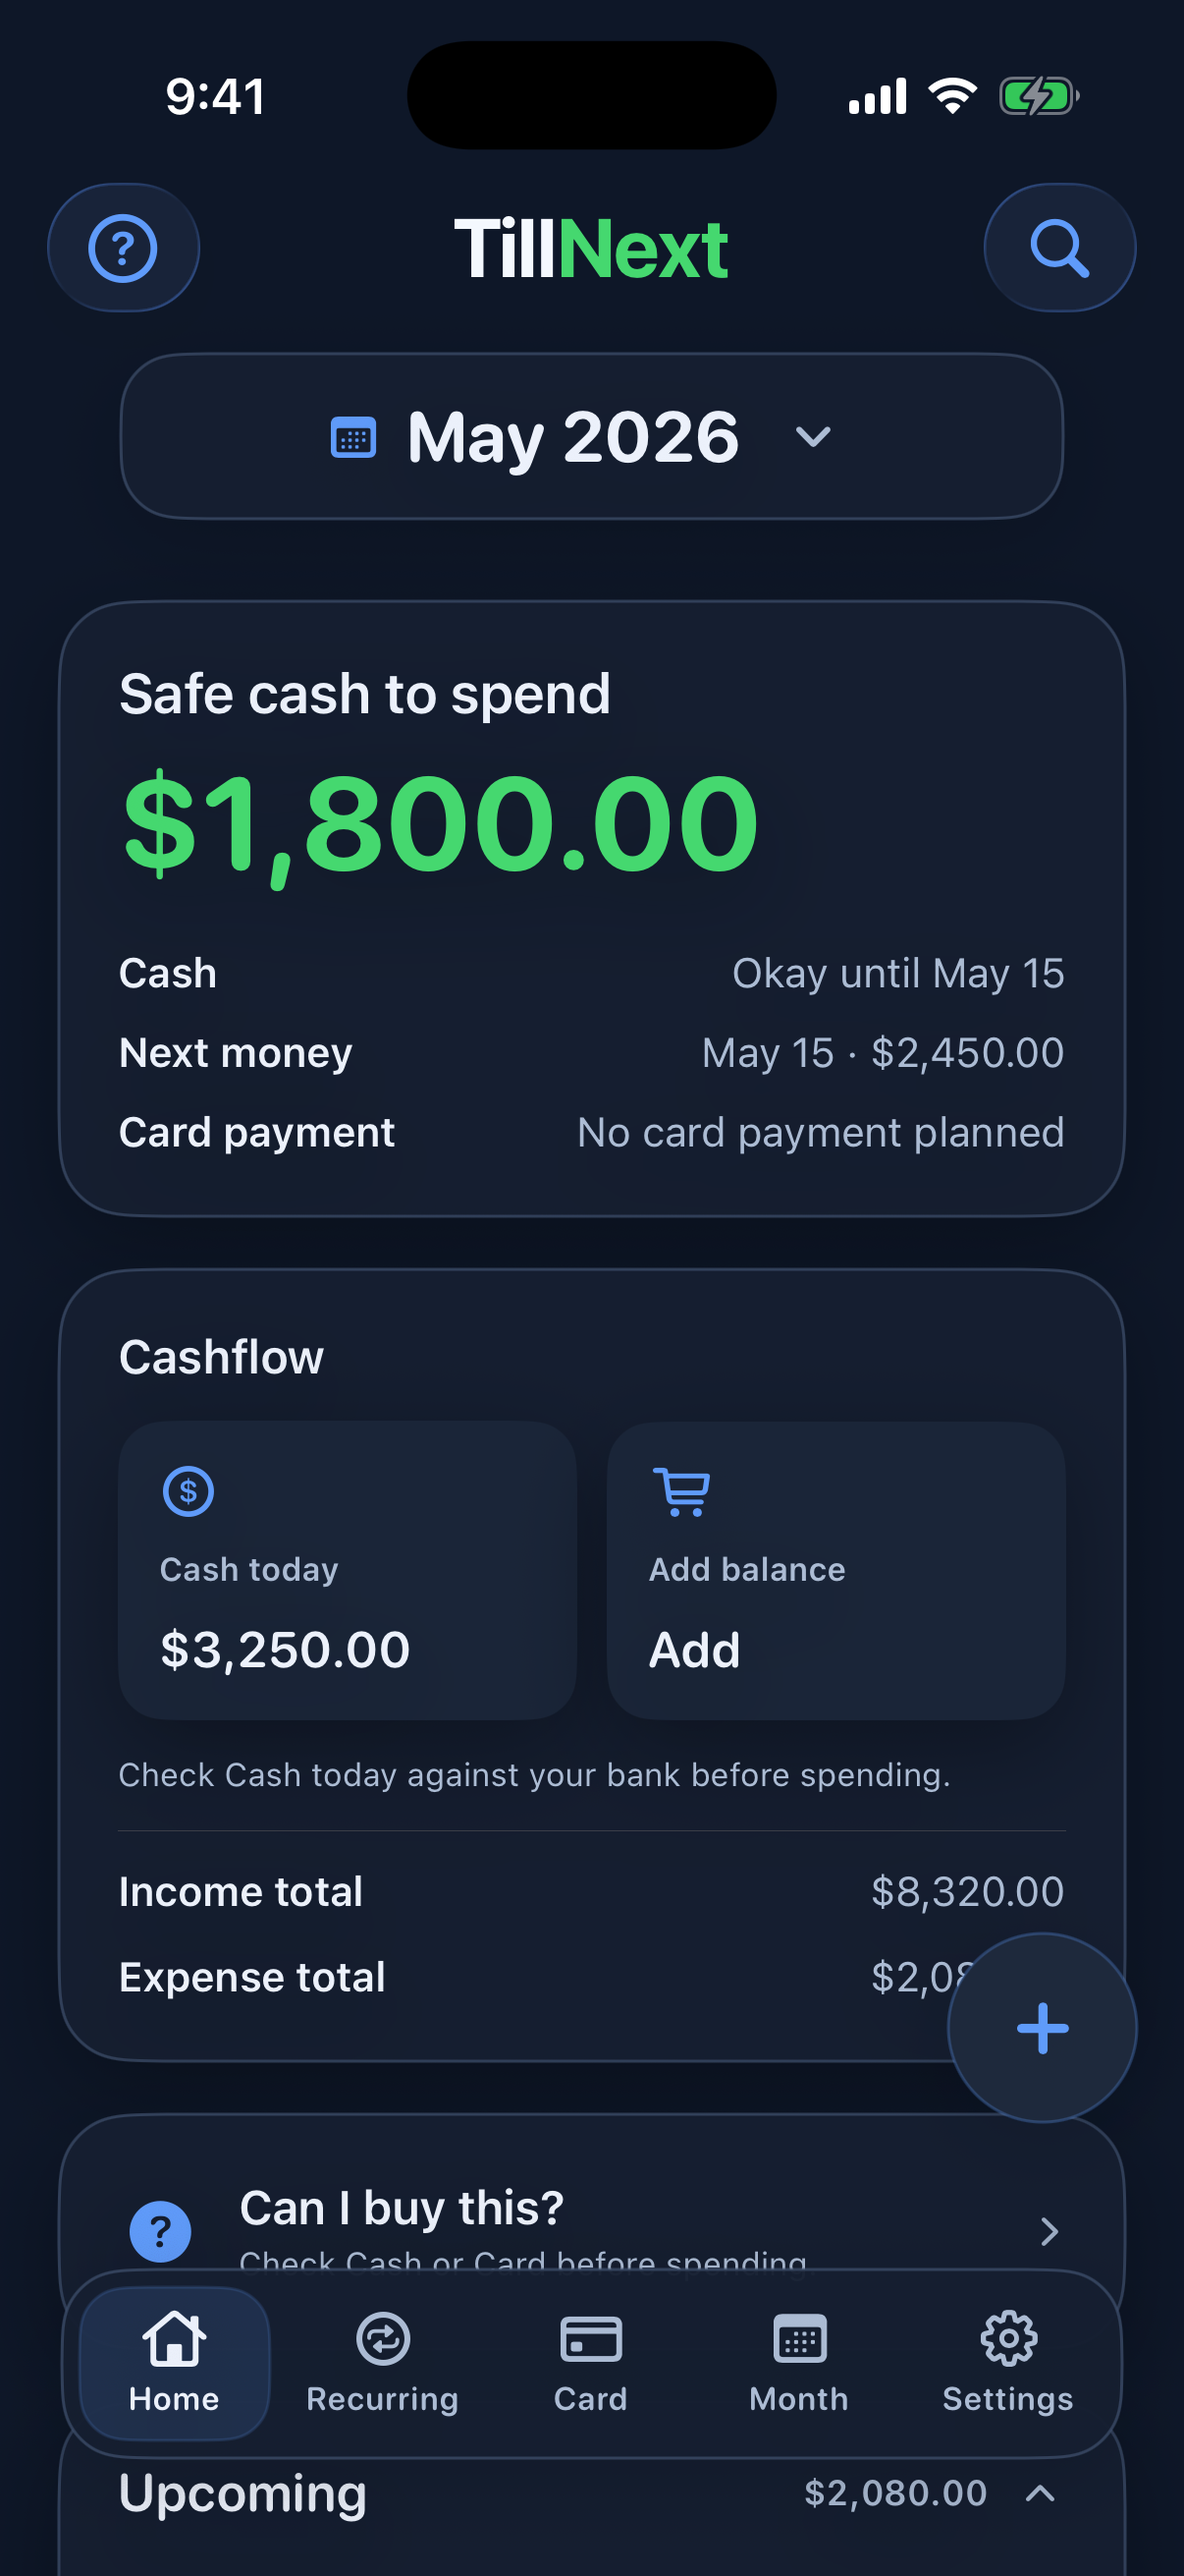
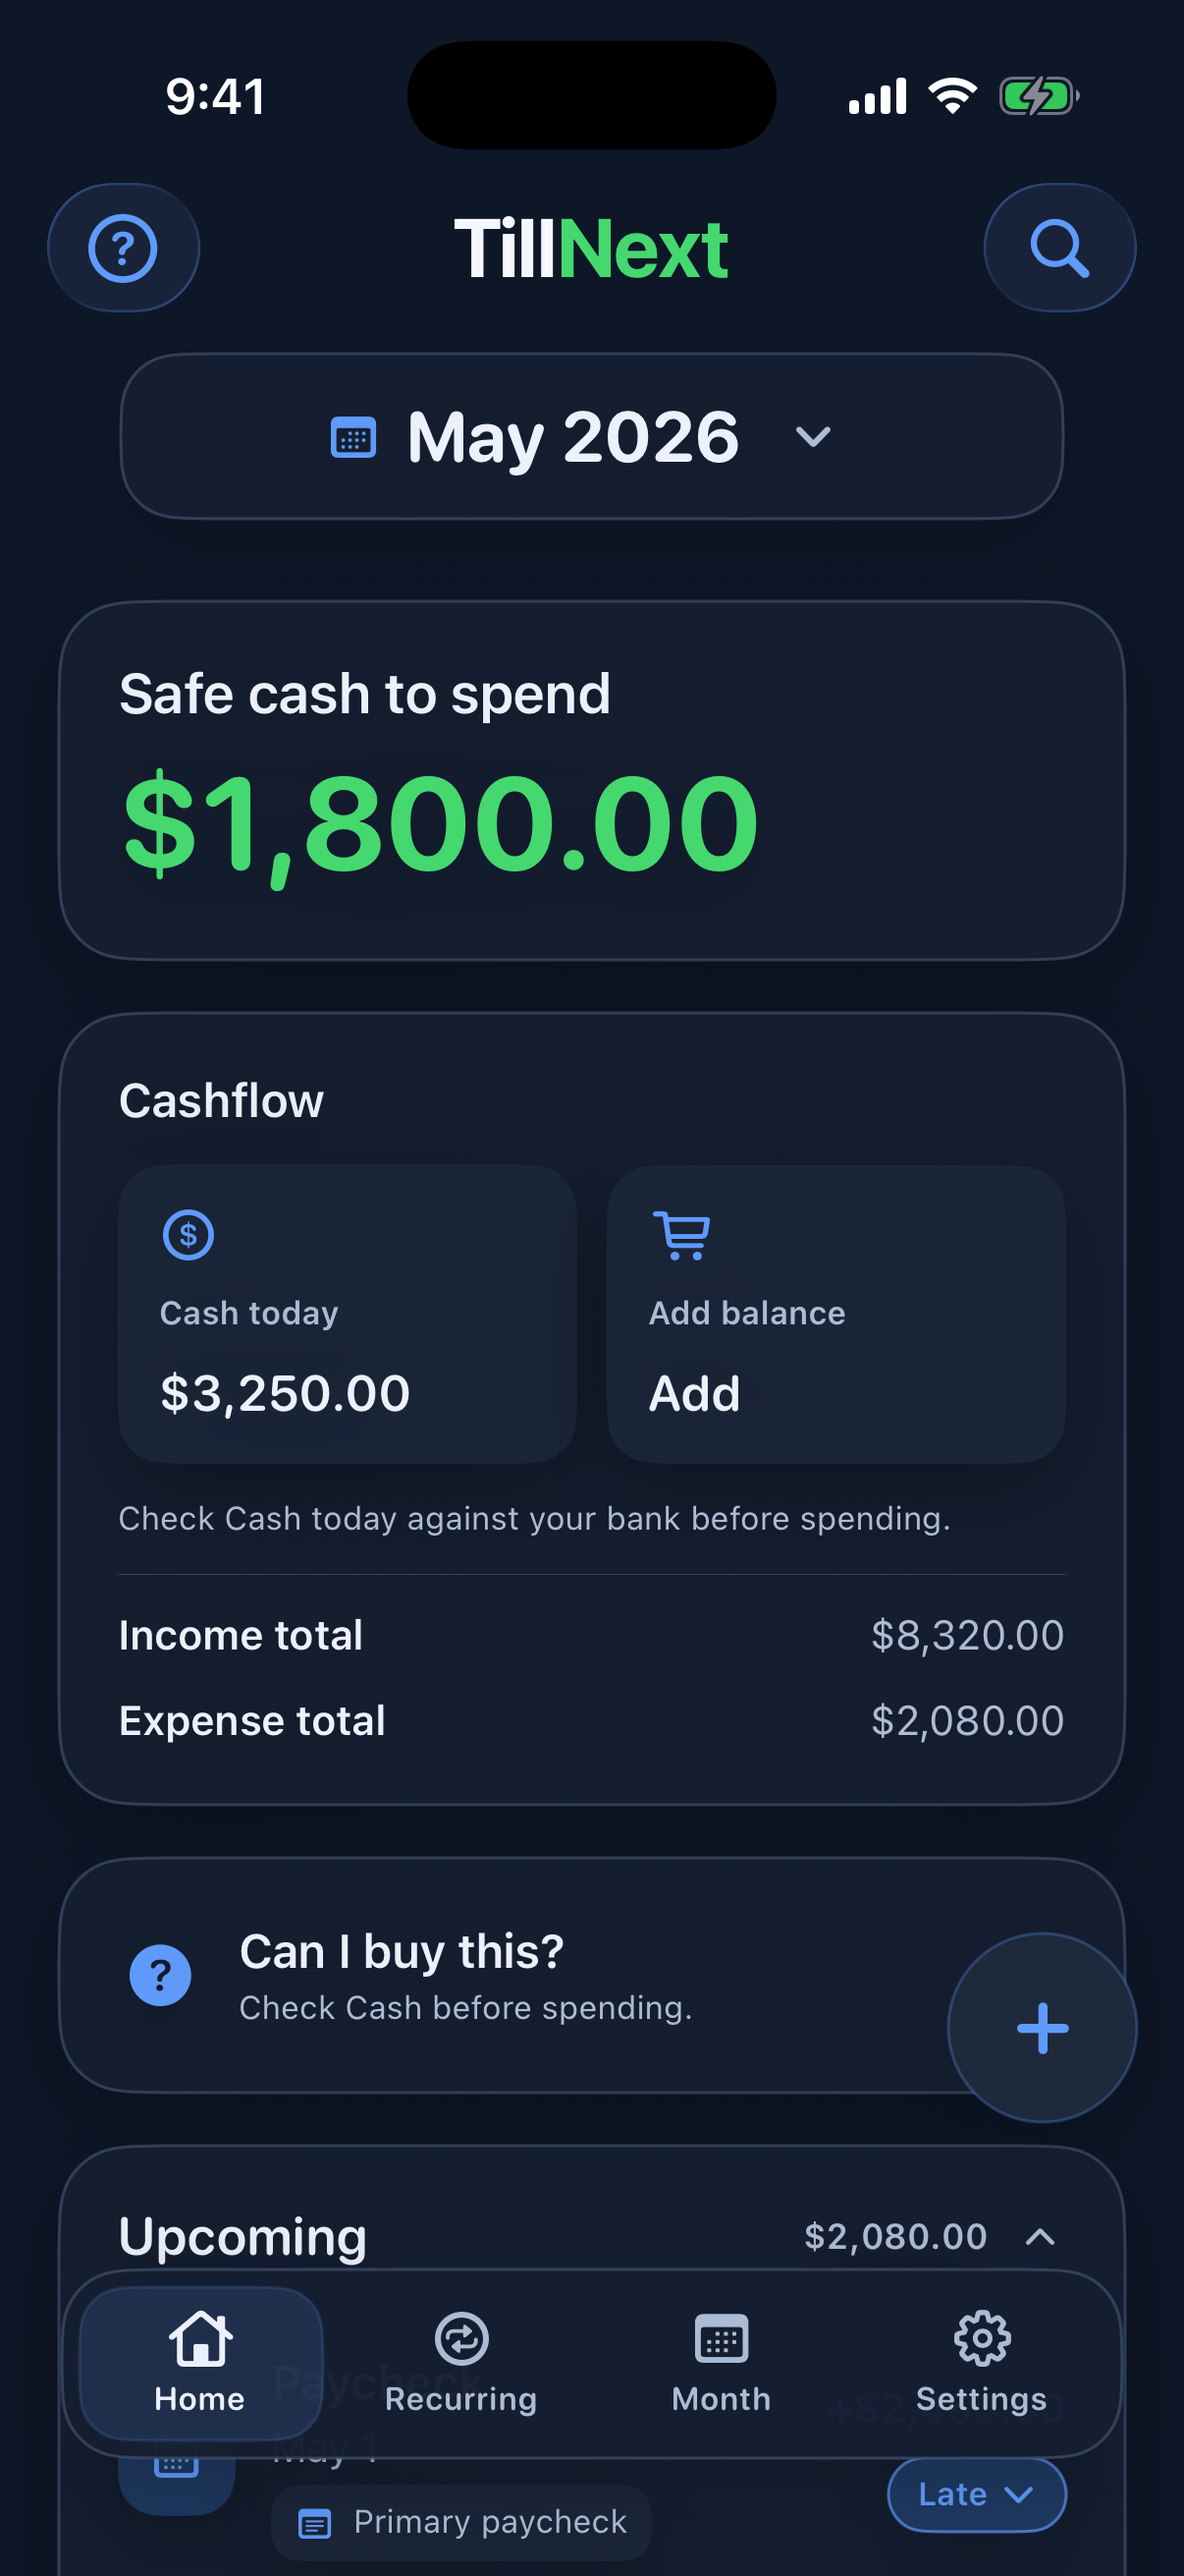
Update Home screenshots for build 299

diff --git a/changelog/index.html b/changelog/index.html
@@ -5,7 +5,7 @@
     <meta name="viewport" content="width=device-width, initial-scale=1">
     <title>TillNext: Paycheck Planner Changelog</title>
     <meta name="description" content="Public changelog for TillNext: Paycheck Planner.">
-    <link rel="stylesheet" href="../styles.css?v=20260510-build298">
+    <link rel="stylesheet" href="../styles.css?v=20260510-build299">
   </head>
   <body>
     <main>
@@ -23,6 +23,8 @@
       <p><strong>Updated:</strong> May 10, 2026</p>
       <h3>May 10, 2026</h3>
       <ul>
+        <li>Prepared build 299 for pre-launch testing.</li>
+        <li>Simplified the Home Safe cash card by removing the extra Cash and Next money detail rows.</li>
         <li>Prepared build 298 for pre-launch testing.</li>
         <li>Added an opt-in automatic daily iCloud Drive backup, plus manual iCloud backup save and restore options in Settings.</li>
         <li>Improved CSV export so it saves as an easy-to-read .csv file that can be edited and imported back into TillNext more reliably.</li>
